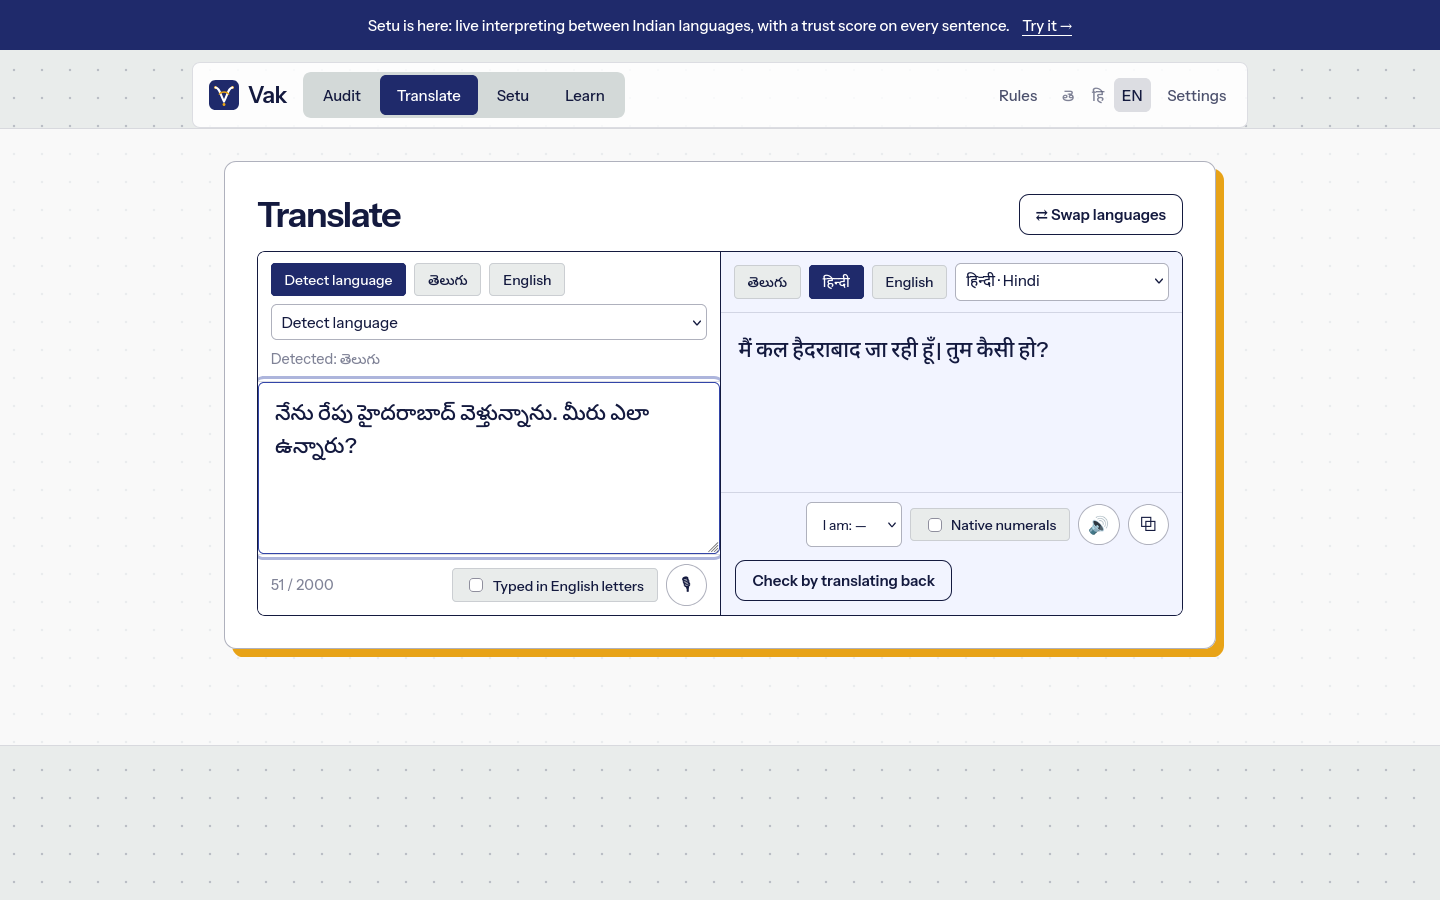
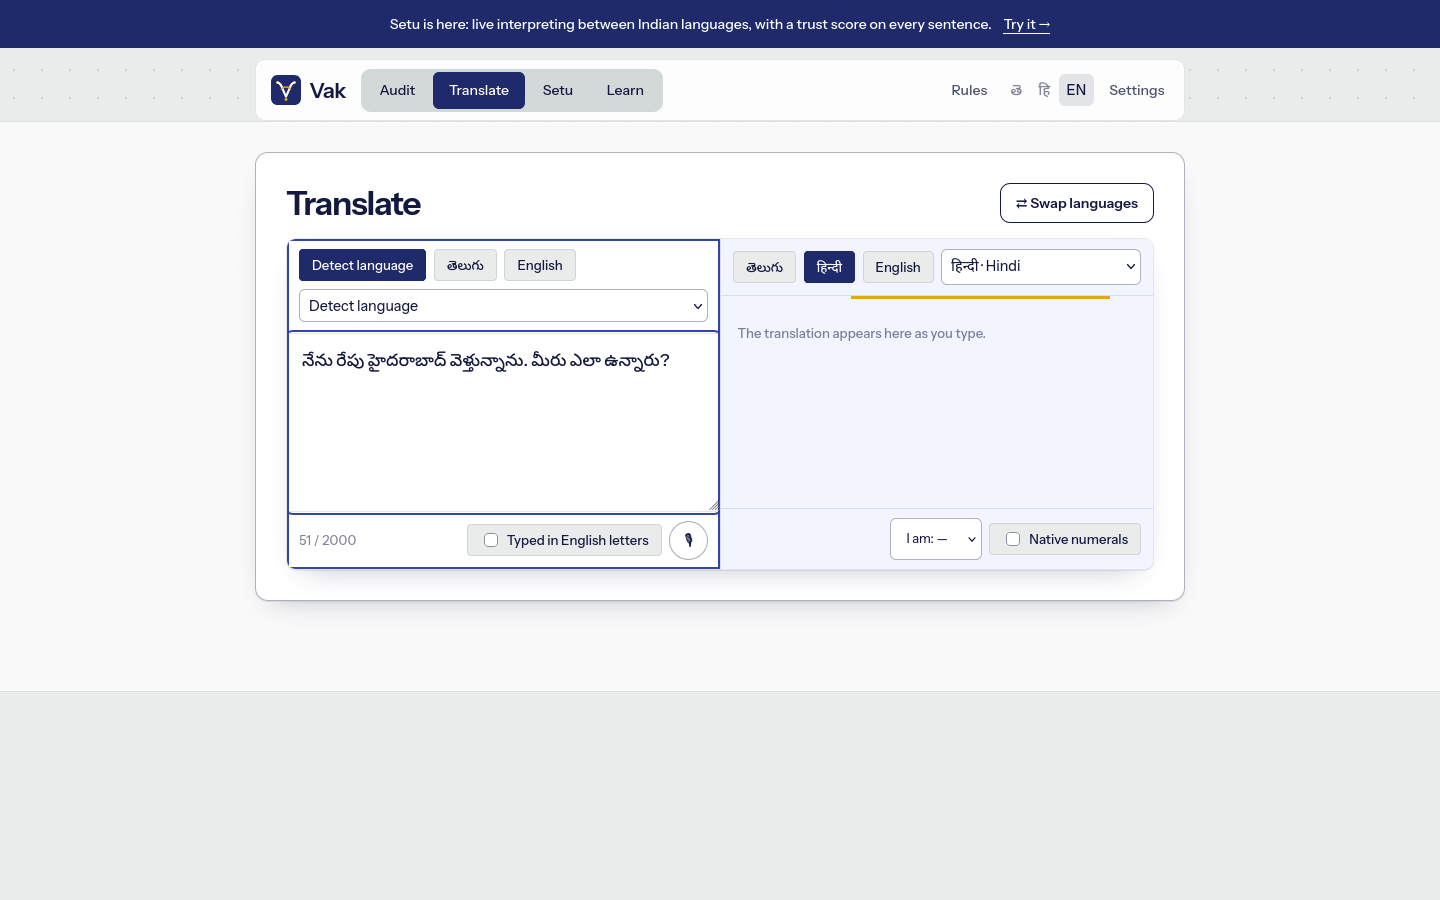
calmer type scale, lighter lines, fix dark-mode button text, finer dot field

diff --git a/web/css/identity.css b/web/css/identity.css
@@ -63,3 +63,58 @@ h1 em::after, h2 em::after { content: ""; position: absolute; left: 0; right: 0;
 @keyframes slide { to { background-position: -200% 0; } }
 @media (max-width: 760px) { .tr-grid { grid-template-columns: 1fr; } .tr-pane.out { border-left: 0; border-top: 1.5px solid var(--ink); } .tr-pane { min-height: 15rem; } }
 .hero2 h1 { margin-bottom: .45em; } .hero2 .lede { margin-top: 1.9rem; }
+
+/* calmer scale: the first pass was too big, especially on wide, high-density screens */
+html { font-size: 93.75%; }
+body { font-size: 1rem; line-height: 1.6; background-image: none; }
+body::before { content: ""; position: fixed; inset: 0; z-index: -1; background-image: var(--dots); background-size: 28px 28px; opacity: .55; mask-image: linear-gradient(#000, transparent 70%); -webkit-mask-image: linear-gradient(#000, transparent 70%); }
+.h1, .hero2 h1 { font-size: clamp(2.4rem, 5.2vw, 4.3rem); line-height: 1.06; letter-spacing: -.03em; }
+:lang(te) .hero2 h1, :lang(hi) .hero2 h1 { font-size: clamp(2.2rem, 4.6vw, 3.7rem); line-height: 1.28; }
+.h2 { font-size: clamp(1.8rem, 3.6vw, 2.7rem); } .h3 { font-size: clamp(1.3rem, 2.2vw, 1.7rem); }
+.lede { font-size: clamp(1rem, 1.3vw, 1.15rem); } .hero2 .lede { max-width: 29rem; }
+.say { font-size: 1.1rem; line-height: 1.7; } .verdict { font-size: clamp(1.6rem, 3vw, 2.2rem); }
+textarea.input, .tr-text { font-size: 1.15rem; line-height: 1.6; }
+.gauge .num { font-size: clamp(2.6rem, 6vw, 3.6rem); }
+.bench-head h2 { font-size: clamp(1.4rem, 2.4vw, 1.9rem); }
+.faq summary { font-size: 1.2rem; } .step h3 { font-size: 1.4rem; } .step b { font-size: 2rem; }
+.foot .big { font-size: clamp(4rem, 15vw, 11rem); -webkit-text-stroke: 1.5px var(--glow); }
+.tr-grid, .bench, .field { border-width: 1px; } .bench { box-shadow: 6px 6px 0 var(--glow); } .field { box-shadow: 6px 6px 0 var(--glow); }
+.card, .test, .run-card { border-width: 1px; } .tr-head, .tr-foot { border-color: var(--line-soft); }
+.nav { width: min(100% - 2rem, 62rem); } .btn { font-size: .95rem; min-height: 2.75rem; padding: .65rem 1.2rem; }
+
+/* one token for "text that sits on the accent colour", so dark mode can't drift */
+:root { --on-accent: #fff; }
+@media (prefers-color-scheme: dark) { :root:not([data-theme="light"]) { --on-accent: #0A0F25; } }
+:root[data-theme="dark"] { --on-accent: #0A0F25; }
+.btn, :root[data-theme="dark"] .btn { color: var(--on-accent); }
+.btn.go, :root[data-theme="dark"] .btn.go { color: #141A3F; }
+.btn.line, :root[data-theme="dark"] .btn.line, :root:not([data-theme="light"]) .btn.line { color: var(--ink); }
+.btn.dark, :root[data-theme="dark"] .btn.dark { background: var(--ink); color: var(--bg); }
+.seg > .on, :root[data-theme="dark"] .seg > .on, .chip.on, .mic, .announce, :root[data-theme="dark"] .announce { color: var(--on-accent); }
+.sheet.ink, .sheet.teal, :root[data-theme="dark"] .sheet.ink, :root[data-theme="dark"] .sheet.teal { color: var(--on-accent); }
+.foot, :root[data-theme="dark"] .foot { color: #E8ECFF; }
+.chip.ok, :root[data-theme="dark"] .chip.ok { color: var(--ink); }
+
+/* review pass: lighter lines, one border per surface, readable secondary text, steadier Indic leading */
+:root { --line-soft: rgb(20 26 63 / .11); --r-md: .65rem; --r-lg: .85rem; }
+:root[data-theme="dark"], :root:not([data-theme="light"]) { }
+@media (prefers-color-scheme: dark) { :root:not([data-theme="light"]) { --ink-2: #B9C2E8; --ink-3: #98A3D2; --line-soft: rgb(232 236 255 / .13); --card: #121936; --lumen-dark: #1A2247; } }
+:root[data-theme="dark"] { --ink-2: #B9C2E8; --ink-3: #98A3D2; --line-soft: rgb(232 236 255 / .13); --card: #121936; --lumen-dark: #1A2247; }
+.bench, .field, .tr-grid { border: 1px solid var(--line-soft); box-shadow: 0 1px 0 var(--line-soft), 0 12px 32px -18px rgb(20 26 63 / .35); }
+.field { box-shadow: 5px 5px 0 var(--glow); border-color: var(--line); }
+.card, .run-card, .test { border: 1px solid var(--line-soft); background: var(--card); }
+.test { border-radius: var(--r-md); } .tests { gap: .35rem; }
+.tr-pane.out { border-left: 1px solid var(--line-soft); }
+.tr-head, .tr-foot { border-color: var(--line-soft); }
+.tr-text, .tr-text:focus { border: 0; outline: 0; box-shadow: none; background: transparent; }
+.tr-pane:focus-within { box-shadow: inset 0 0 0 2px var(--fathom-2); }
+.input:focus, select.input:focus { outline: 2px solid var(--fathom-2); outline-offset: 2px; border-color: var(--fathom-2); }
+.input, select.input { border: 1px solid var(--line); }
+.faq details { border-top: 1px solid var(--line-soft); } .faq details:last-child { border-bottom: 1px solid var(--line-soft); }
+.meter { background: var(--lumen-dark); height: .5rem; }
+.btn { min-height: 2.75rem; } .icon-btn { width: 2.6rem; height: 2.6rem; border: 1px solid var(--line); }
+.hero2 h1 { margin-bottom: .6em; } .hero2 .lede { margin-top: 1.6rem; max-width: 33rem; }
+:lang(te) body, :lang(hi) body, :lang(ta) body, :lang(kn) body, :lang(ml) body, :lang(bn) body { line-height: 1.75; }
+:lang(te) .hero2 h1, :lang(hi) .hero2 h1 { margin-bottom: .75em; }
+.tr-text { font-size: 1.2rem; line-height: 1.7; } .tr-text:lang(te), .tr-text:lang(hi) { font-size: 1.3rem; }
+.hint, .tr-foot .hint, .tab-note { color: var(--ink-3); font-size: .875rem; }

diff --git a/web/js/pulli.js b/web/js/pulli.js
@@ -27,7 +27,7 @@ export async function pulli(box, tag) {
   function resize() {
     dpr = Math.min(2, devicePixelRatio || 1); W = box.clientWidth; H = box.clientHeight;
     cv.width = W * dpr; cv.height = H * dpr;
-    pitch = Math.max(16, Math.round(W / 30)); cols = Math.floor(W / pitch); rows = Math.floor(H / pitch);
+    pitch = Math.max(11, Math.round(W / 46)); cols = Math.floor(W / pitch); rows = Math.floor(H / pitch);
     lit = new Float32Array(cols * rows); target = new Float32Array(cols * rows);
   }
 
@@ -44,7 +44,7 @@ export async function pulli(box, tag) {
       const k = r * cols + c; lit[k] += (target[k] - lit[k]) * 0.09;
       const x = ox + c * pitch, y = oy + r * pitch, a = lit[k];
       ctx.globalAlpha = 0.22 + a * 0.78; ctx.fillStyle = a > 0.5 ? glow : ink;
-      ctx.beginPath(); ctx.arc(x, y, 1.5 + a * (pitch * 0.2), 0, 7); ctx.fill();
+      ctx.beginPath(); ctx.arc(x, y, 1.1 + a * (pitch * 0.24), 0, 7); ctx.fill();
     }
     // the thread: one point looping around the grid, leaving a fading trail
     const s = t / 1000, px = W / 2 + Math.sin(s * 0.9) * W * 0.38 + Math.sin(s * 2.3) * W * 0.05, py = H / 2 + Math.sin(s * 1.3 + 1) * H * 0.36 + Math.cos(s * 2.1) * H * 0.04;
